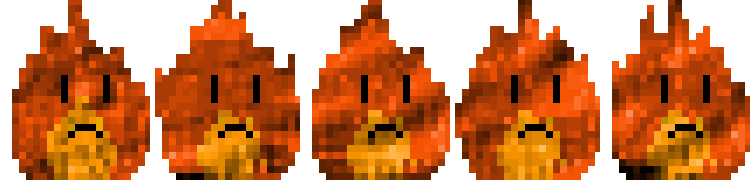
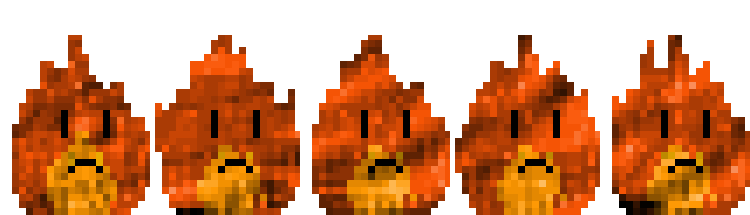
Initial commit Devon

diff --git a/main.js b/main.js
@@ -5,14 +5,10 @@ let cursors;
 let camera;
 let waterDrops = [];
 let projectiles = [];
-let sinks = [];
 let outerThis;
 let lastFullPercentage;
 let warmthText;
 let candle;
-let warmthBarBackground;
-let warmthBar;
-let gameEnded = false;
 
 const projectileSpeed = 750;
 const bounce = 0.1;
@@ -42,22 +38,33 @@ const config = {
     }
 };
 
+var warmthLvl = 'H';
+
 let game = new Phaser.Game(config);
 
 function preload ()
 {
-    this.load.image('fire', 'assets/fire.jpg');
-    this.load.image('wall', 'assets/grey.jpg');
-    this.load.image('waterDrop', 'assets/water.png');
-    this.load.image('waterProjectile', 'assets/waterProjectile.jpg');
-    this.load.image('background', 'assets/background.jpg');
+    this.load.image('wall', 'assets/platform.png');
+    this.load.spritesheet('waterProjectile', 'assets/waterProjectile.jpg', { frameWidth: 150, frameHeight: 150 });
+    this.load.image('background', 'assets/bg.png');
     this.load.image('gameOver', 'assets/game_over.png');
     this.load.image('candle_on', 'assets/candle_on.png');
     this.load.image('candle_off', 'assets/candle_off.jpg');
     this.load.image('victory', 'assets/victory.jpg');
-    this.load.image('bar', 'assets/warmth_bar.jpg');
-    this.load.image('bar_back', 'assets/black.jpg');
-    this.load.image('sink', 'assets/sink.png');
+
+    this.load.spritesheet('FHappy', 'assets/FlameboiHappy.png', { frameWidth: 150, frameHeight: 215 });
+    this.load.spritesheet('FNeutral', 'assets/FlameboiNeutral.png', { frameWidth: 150, frameHeight: 215 });
+    this.load.spritesheet('FSad', 'assets/FlameboiSad.png', { frameWidth: 150, frameHeight: 215 });
+
+    this.load.spritesheet('LFHappy', 'assets/LFlameboiHappy.png', { frameWidth: 180, frameHeight: 215 });
+    this.load.spritesheet('LFNeutral', 'assets/LFlameboiNeutral.png', { frameWidth: 180, frameHeight: 215 });
+    this.load.spritesheet('LFSad', 'assets/LFlameboiSad.png', { frameWidth: 180, frameHeight: 215 });
+
+    this.load.spritesheet('RFHappy', 'assets/RFlameboiHappy.png', { frameWidth: 190, frameHeight: 215 });
+    this.load.spritesheet('RFNeutral', 'assets/RFlameboiNeutral.png', { frameWidth: 190, frameHeight: 215 });
+    this.load.spritesheet('RFSad', 'assets/RFlameboiSad.png', { frameWidth: 190, frameHeight: 215 });
+
+    this.load.spritesheet('waterDrop', 'assets/WaterboiEnemy.png', { frameWidth: 150, frameHeight: 150 });
 }
 
 function create ()
@@ -65,42 +72,96 @@ function create ()
     lastFullPercentage = 100;
     outerThis = this;
 
-    background = this.add.image(0,0,'background').setScale(widthMultiplier, 1).setOrigin(0);
+    background = this.add.image(0,0,'background').setOrigin(0);
     cursors = this.input.keyboard.createCursorKeys();
-    player = this.physics.add.sprite(width/8, height/2, 'fire');
+    player = this.physics.add.sprite(width/8, height/2, 'FHappy');
     platforms = this.physics.add.staticGroup();
     candle = this.physics.add.sprite(width*widthMultiplier * 9 / 10, 0, 'candle_off');
     platforms.create(0,height*3/4, 'wall').setOrigin(0,0).setDisplaySize(width*widthMultiplier, height/4).refreshBody();
     player.setBounce(bounce);
     player.setCollideWorldBounds(true);
     player.warmth = 100;
-
-    warmthBarBackground = this.add.image(width/2, height/10, 'bar_back').setDisplaySize(404,44).setScrollFactor(0);
-    warmthBarBackground.scaleX = 0.255;
-    warmthBar = this.add.image(width/2, height/10, 'bar').setDisplaySize(400,40).setScrollFactor(0);
-    warmthText = this.add.text(width/2, height/10, 'Warmth: 100', { fill: '#ffffff', font: '18pt Arial' }).setOrigin(0.5,0.5).setScrollFactor(0);
+    warmthText = this.add.text(width*4/10, height/10, 'Warmth: 100', { fill: '#ffffff', font: '18pt Arial' });
+    warmthText.setScrollFactor(0);
     updateWarmthBar();
     player.body.setGravityY(gravity);
-
     for(let i=0;i<1;i++){
         let drop = this.physics.add.sprite(width/2+ (i*500),height/2,'waterDrop');
         initiateWaterDrop(drop);
         waterDrops.push(drop);
     }
-    for(let i=0;i<1;i++){
-        let sink = this.physics.add.sprite(width/2+ (i*500),height/2,'sink').setDisplaySize(200,50);
-        sinks.push(sink);
-    }
+
+    this.anims.create({
+        key: 'leftH',
+        frames: this.anims.generateFrameNumbers('LFHappy'),
+        frameRate: 10,
+        repeat: -1
+    });
+
+    this.anims.create({
+        key: 'turnH',
+        frames: this.anims.generateFrameNumbers('FHappy'),
+        frameRate: 10,
+        repeat: -1
+    });
+
+    this.anims.create({
+        key: 'rightH',
+        frames: this.anims.generateFrameNumbers('RFHappy'),
+        frameRate: 10,
+        repeat: -1
+    });
+
+    this.anims.create({
+        key: 'leftN',
+        frames: this.anims.generateFrameNumbers('LFNeutral'),
+        frameRate: 10,
+        repeat: -1
+    });
+
+    this.anims.create({
+        key: 'turnN',
+        frames: this.anims.generateFrameNumbers('FNeutral'),
+        frameRate: 10,
+        repeat: -1
+    });
+
+    this.anims.create({
+        key: 'rightN',
+        frames: this.anims.generateFrameNumbers('RFNeutral'),
+        frameRate: 10,
+        repeat: -1
+    });
+
+    this.anims.create({
+        key: 'leftS',
+        frames: this.anims.generateFrameNumbers('LFSad'),
+        frameRate: 10,
+        repeat: -1
+    });
+
+    this.anims.create({
+        key: 'turnS',
+        frames: this.anims.generateFrameNumbers('FSad'),
+        frameRate: 10,
+        repeat: -1
+    });
+
+    this.anims.create({
+        key: 'rightS',
+        frames: this.anims.generateFrameNumbers('RFSad'),
+        frameRate: 10,
+        repeat: -1
+    });
+
 
     this.physics.add.collider(player, platforms);
     this.physics.add.collider(waterDrops, platforms);
     this.physics.add.collider(candle, platforms);
-    this.physics.add.collider(sinks, platforms);
     this.physics.add.overlap(player, projectiles, projectileContact, null, this);
     this.physics.add.overlap(platforms, projectiles, killProjectile, null, this);
     this.physics.add.overlap(player, waterDrops, creatureContact, null, this);
     this.physics.add.overlap(player, candle, lightCandle, null, this);
-    this.physics.add.overlap(player, sinks, sinkCollision, null, this);
 
     //CAMERA STUFF
     camera = this.cameras.main.setSize(width, height);
@@ -112,24 +173,50 @@ function update ()
 {
     const playerSpeed = 300;
     const playerJumpHeight = 1000;
-    const playerSpeedIncrement = 150;
-    const playerFriction = 1.1;
 
-    if(gameEnded) return null;
-
-    if(player.warmth<=0) loseGame();
+    if(player.warmth<=0) endGame();
 
     if (cursors.left.isDown)
     {
-        if(player.body.velocity.x>-playerSpeed) player.body.velocity.x -= playerSpeedIncrement
+        player.setVelocityX(-playerSpeed);
+
+        if (warmthLvl == 'H') {
+            player.anims.play('leftH', true);
+        }
+        else if (warmthLvl == 'N') {
+            player.anims.play('leftN', true);
+        }
+        else {
+            player.anims.play('leftS', true);
+        }
     }
     else if (cursors.right.isDown)
     {
-        if(player.body.velocity.x<playerSpeed) player.body.velocity.x += playerSpeedIncrement
+        player.setVelocityX(playerSpeed);
+
+        if (warmthLvl == 'H') {
+            player.anims.play('leftH', true);
+        }
+        else if (warmthLvl == 'N') {
+            player.anims.play('leftN', true);
+        }
+        else {
+            player.anims.play('leftS', true);
+        }
     }
     else
     {
-        player.body.velocity.x = Math.floor(player.body.velocity.x/playerFriction);
+        player.setVelocityX(0);
+
+        if (warmthLvl == 'H') {
+            player.anims.play('leftH', true);
+        }
+        else if (warmthLvl == 'N') {
+            player.anims.play('leftN', true);
+        }
+        else {
+            player.anims.play('leftS', true);
+        }
     }
 
     if (cursors.up.isDown && player.body.touching.down)
@@ -155,7 +242,6 @@ function update ()
 
         if(child.active) {
             //JUMP COUNTER
-
             if (facingLeft) {
                 child.setVelocityX(-speed);
             } else {
@@ -196,20 +282,17 @@ function initiateWaterProjectile(projectile, left) {
 }
 
 function updateWarmthBar() {
-    let warmth = Math.ceil(player.warmth);
-    warmthText.setText('Warmth: '+ warmth);
-    warmthBar.scaleX = warmth/400;
+    warmthText.setText('Warmth: '+ Math.ceil(player.warmth));
 }
 
 function projectileContact(player,projectile) {
-    loseWarmth(25);
+    player.warmth -= 25;
     projectile.disableBody(true,true);
 }
 
 function creatureContact(player,creature) {
-    loseWarmth(50);
+    player.warmth -= 50;
     kill(creature);
-    player.setVelocityX(-2000);
 }
 
 function killProjectile(projectile,platform) {
@@ -221,24 +304,14 @@ function kill(object) {
     object.active = false;
 }
 
-function destroyAll() {
-    waterDrops = [];
-    projectiles = null;
-    sinks = [];
-}
-
-function loseGame() {
+function endGame() {
     outerThis.add.image(0,0,'gameOver').setOrigin(0).setDisplaySize(width, height);
     camera.setBounds(0, 0, width, height);
-    destroyAll();
-    gameEnded = true;
 }
 
 function winGame() {
     outerThis.add.image(0,0,'victory').setOrigin(0).setDisplaySize(width, height);
     camera.setBounds(0, 0, width, height);
-    destroyAll();
-    gameEnded = true;
 }
 
 function lightCandle() {
@@ -246,12 +319,4 @@ function lightCandle() {
     kill(candle);
     outerThis.physics.add.collider(candleOn, platforms);
     setTimeout(winGame,2000);
-}
-
-function sinkCollision() {
-    loseWarmth(5);
-}
-
-function loseWarmth(amount) {
-    player.warmth -= amount;
 }
